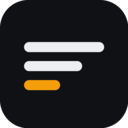
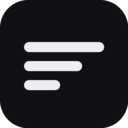
chore: drop amber accent from brand mark — black and white only
Icon and in-page brand marks now render the bottom stripe in the same
foreground color as the other two. The amber highlighter accent still
lives on interactive UI (selection, focus rings, <em> pills, list
markers), but the brand mark itself is no longer doing two things at
once. Simpler toolbar presence.

Changed region(s): [[0.1875, 0.625, 0.5, 0.7188]]

diff --git a/tokens.css b/tokens.css
@@ -120,10 +120,7 @@ body {
     height: 100%;
 }
 
-.brand-mark .stripe-accent {
-    fill: var(--accent);
-}
-
+.brand-mark .stripe-accent,
 .brand-mark .stripe-fg {
     fill: currentColor;
 }